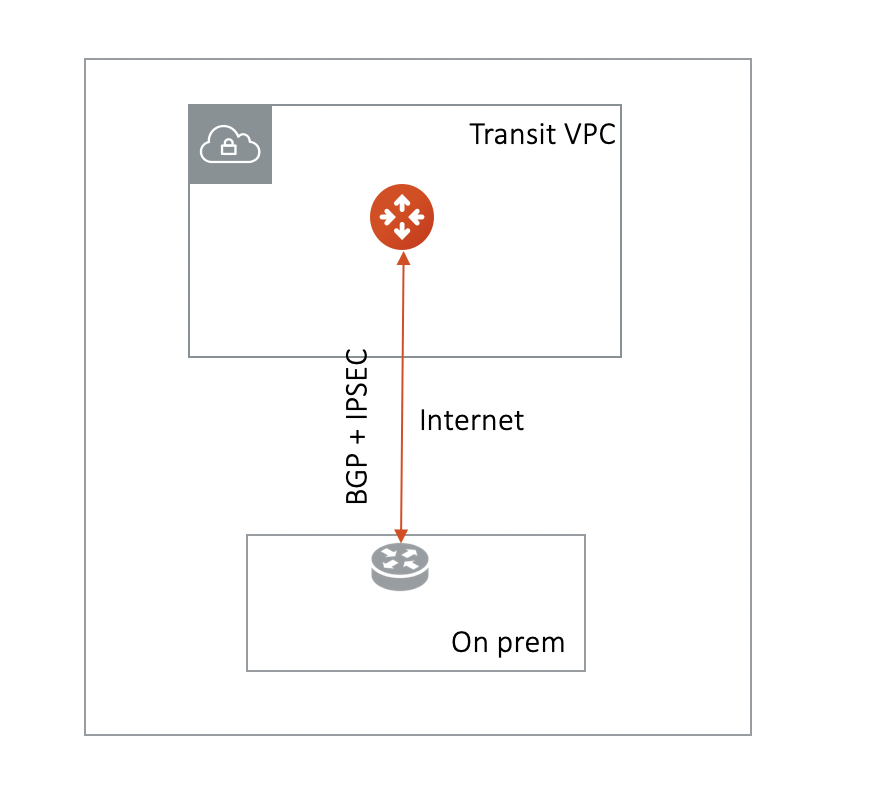
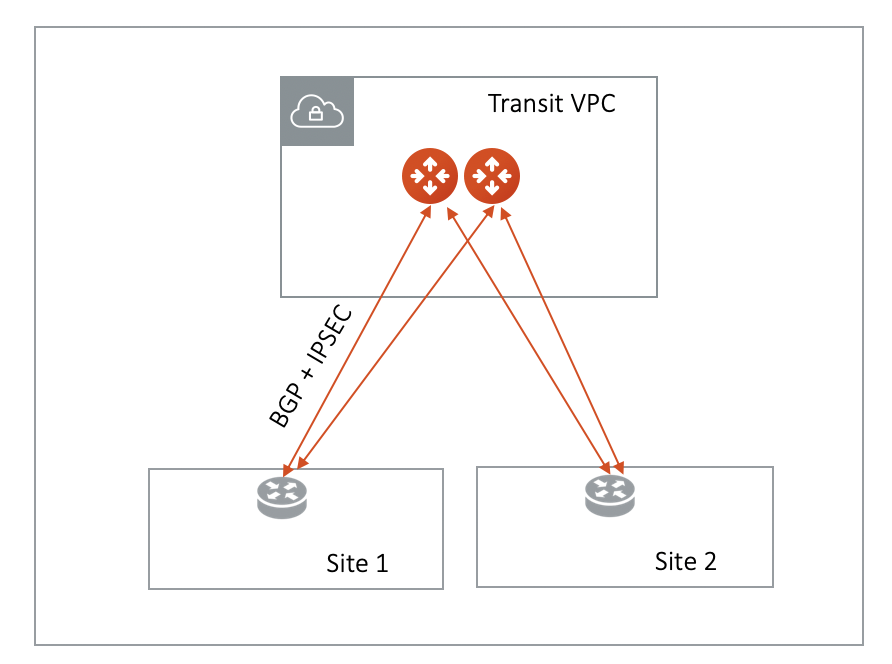
update active mesh faq

diff --git a/HowTos/transitgw_external.rst b/HowTos/transitgw_external.rst
@@ -16,7 +16,7 @@ Starting from Release 4.1, there are three options to connect to a Transit GW wi
 This document provides instructions on how to connect the Aviatrix Transit GW to external router/firewall devices.
 
 What are the use cases for connecting to an external router?
------------------------------------------------------------
+---------------------------------------------------------------
 
  - **Overcoming the AWS VGW 100 route limit** Typically, an Aviatrix Transit GW connects to VGW over IPSEC and runs a BGP session with VGW. VGW then connects to on-prem devices. By connecting directly to an external device, the VGW is bypassed. 
 
@@ -60,23 +60,30 @@ The configuration is the `Step 3 in the Transit Network workflow <https://docs.a
 
 Fill the parameters and click OK.
 
-=========================      ==========
+============================   ==========
 **Setting**                    **Value**
-=========================      ==========
-VPC ID/VNet Name               The Transit VPC ID where Transit GW was launched.
+============================   ==========
+BGP or Static                  Select BGP if the Transit GW runs dynamic routing with remote site. Otherwise, select Static.
+VPC Name                       The Transit VPC ID where Transit GW was launched.
 Connection Name                A unique name to identify the connection to external device. 
-BGP Local AS Number            The BGP AS number the Transit GW will use to exchange routes with external device.
-BGP Remote AS Number           The BGP AS number the external device will use to  exchange routes Aviatrix Transit GW.
+Aviatrix Transit GW BGP ASN    The BGP AS number the Transit GW will use to exchange routes with external device.
 Primary Cloud Gateway          The Transit GW you created in `Step 1 <https://docs.aviatrix.com/HowTos/transitvpc_workflow.html#launch-a-transit-gateway>`_. If Transit DMZ is deployed, select the `Companion gateway <https://docs.aviatrix.com/HowTos/transit_dmz_faq.html#how-does-transit-dmz-actually-work>`_.
-Remote Gateway Type            Select one device type. Select Generic if the external device is not in the drop down. 
 Algorithm                      Optional parameters. Leave it unselected if you don't know.
 Enable HA                      Select HA if there are two external devices. 
 Over DirectConnect             Select this option if your underlying infrastructure is private network, such as AWS Direct Connect and Azure Express Rout. See "How does it work" section for more details. When this option is selected, BGP and IPSEC run over private IP addresses.
-External Device IP             IP address of the external device. If "Over DirectConnect" is selected, enter the private IP address of the external device. 
+BGP Remote AS Number           When BGP is selected, the BGP AS number the external device will use to  exchange routes Aviatrix Transit GW.
+Remote Gateway IP              IP address of the remote device. If "Over DirectConnect" is selected, enter the private IP address of the external device. 
 Pre-shared Key                 Optional parameter. Leave it blank to let the pre-shared key to be auto generated. 
-Local Tunnel IP address        Optional parameter. This field is for the tunnel inside IP address of the Transit gateway. Leave it blank.  
-Remote Tunnel IP address       Optional parameter. This field is for the tunnel inside IP address of the External device. Leave it blank. 
-=========================      ==========
+Local Tunnel IP                Optional parameter. This field is for the tunnel inside IP address of the Transit gateway. Leave it blank.  
+Remote Tunnel IP               Optional parameter. This field is for the tunnel inside IP address of the External device. Leave it blank. 
+Over DirectConnect (Backup)    Select this option if HA is enabled.
+BGP Remote ASN (Backup)        When BGP is selected, the remote ASN for backup should be the same as the primary remote ASN. 
+Remote Gateway IP (Backup)     IP address of the remote device. If "Over DirectConnect" is selected, enter the private IP address of the external device.
+Pre-shared Key (Backup)        Optional parameter. Leave it blank to let the pre-shared key to be auto generated. 
+Local Tunnel IP (Backup)       Optional parameter. This field is for the tunnel inside IP address of the Transit gateway. Leave it blank.  
+Remote Tunnel IP (Backup)      Optional parameter. This field is for the tunnel inside IP address of the External device. Leave it blank. 
+
+============================   ==========
 
 2. Download the configuration
 ~~~~~~~~~~~~~~~~~~~~~~~~~~~~~~

diff --git a/HowTos/activemesh_faq.rst b/HowTos/activemesh_faq.rst
@@ -78,6 +78,30 @@ Can ActiveMesh be applied to Azure?
 
 Yes. 
 
+What is route based VPN and policy based VPN?
+-----------------------------------------------
+
+Most firewalls appliances support both policy based and route based VPN’s. Which one we are supposed to use in most cases doesn't really matter, but there are a couple of things to consider.
+
+Route based VPN is more flexible, more powerful and recommended over policy based. However a policy based VPN is usually simpler to create.
+
+A route based VPN creates a virtual IPSec interface, and whatever traffic hits that interface is encrypted and decrypted according to the phase 1 and phase 2 IPSec settings.
+
+In policy based VPN the tunnel is specified within the policy itself with an action of "IPSec". Also for policy based VPN only one policy is required. A route based VPN is created with two policies, one for inbound and another for outbound with a normal "Accept" action.
+
+A static route is also required for a route based VPN, so anything destined to the remote network must go through the virtual IPSec interface which was created when specifying this within the Phase 1 settings.
+
+If the VPN connection requires redundancy, a route based VPN is normally required. 
+
+Does ActiveMesh support route based VPN or policy based VPN?
+-------------------------------------------------------------
+
+ActiveMesh enables the Aviatrix Transit GW to connect to multiple remote sites over IPSec VPN tunnels.
+
+When you configure VPN to remote sites from Transit Network -> Setup -> Step 3 (Connect to VGW/External Device/Aviatrix CloudN) in the `Transit Network workflow Step 3 <https://docs.aviatrix.com/HowTos/transitvpc_workflow.html#connect-the-transit-gw-to-aws-vgw>`_, the VPN tunnel is built with route based VPN. 
+
+On the other hand, when you configure VPN to remote sites from Site2Cloud page and select a Transit GW, the VPN tunnel is built with policy based VPN.  
+
 
 .. |activemesh_spoke_transit| image:: activemesh_faq_media/activemesh_spoke_transit.png
    :scale: 30%
